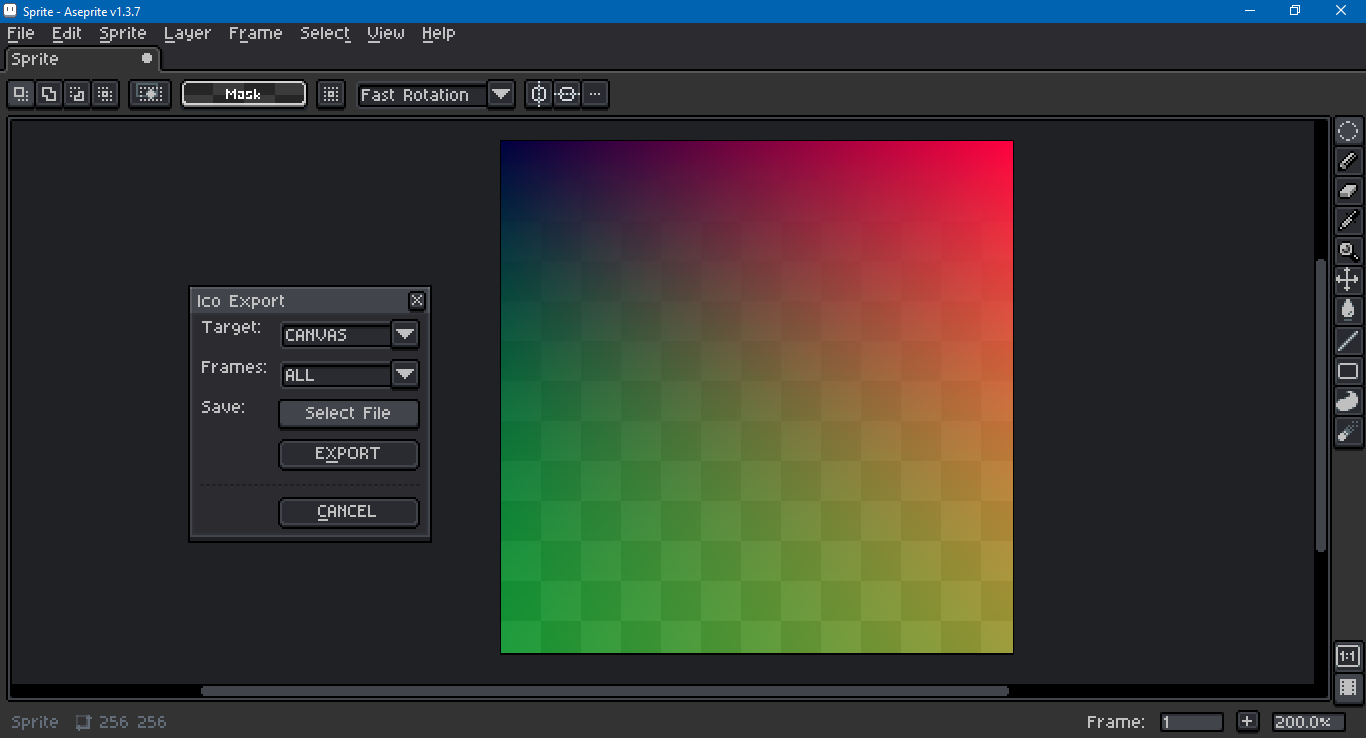
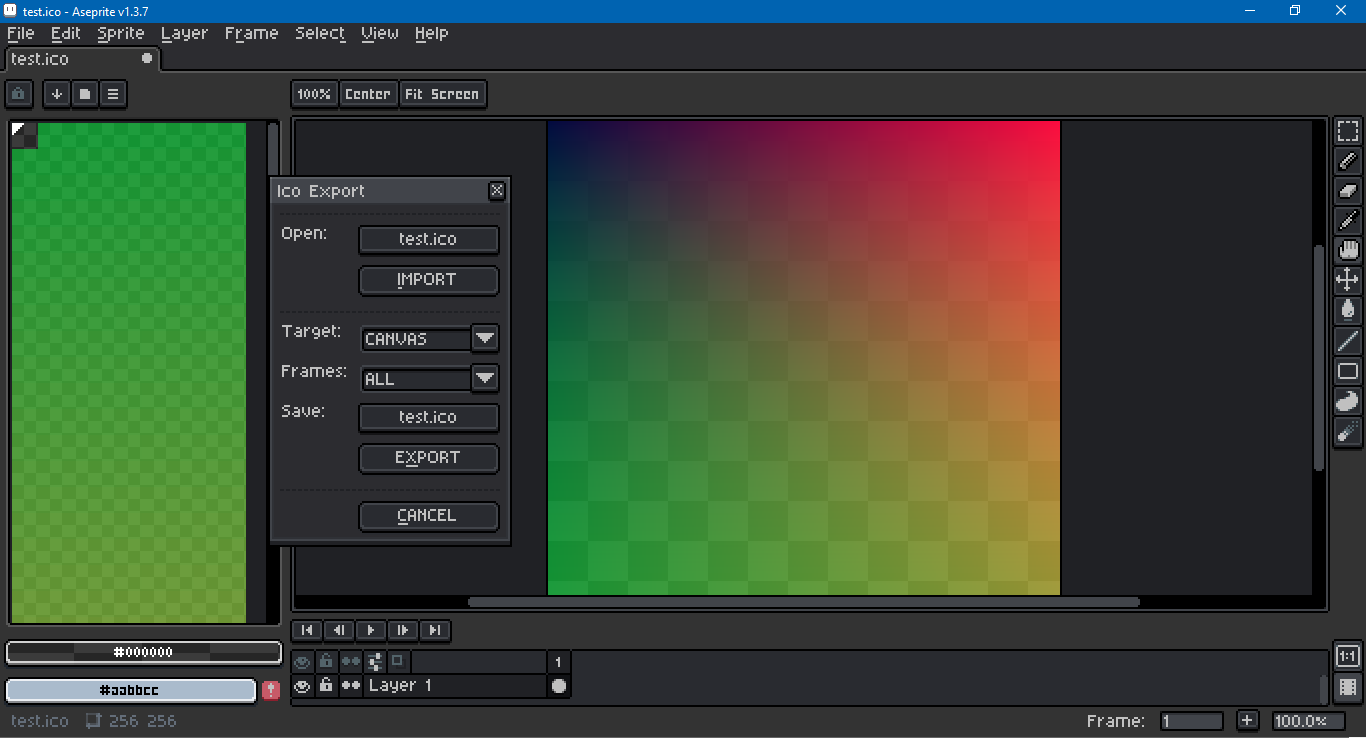
Update readme.

diff --git a/README.md b/README.md
@@ -1,10 +1,16 @@
-# Aseprite Ico Export
+# Aseprite Ico Import & Export
 
 ![Screen Capture](screenCap.png)
 
-This an [Aseprite](https://www.aseprite.org/) script to export `ico`s in 32-bit RGBA format, i.e., with translucency. Aseprite is an "animated sprite editor and pixel art tool."
+This an [Aseprite](https://www.aseprite.org/) script to export `ico`s in 32 bit RGBA format, i.e., with translucency. It also has some import capability.
 
-Aseprite supports `ico`s, but the built-in feature does not include the alpha channel. This export is limited to to the size 256 by 256 pixels. It will write a file as 32-bit RGBA regardless of the sprite's color mode (grayscale, indexed or RGB). Each frame is stored as a separate entry in the same `ico` file. To read more about the format, see the [Wikipedia](https://en.wikipedia.org/wiki/ICO_(file_format)) entry.
+Aseprite can load and save `ico`s, but the files are unreadable by other graphics editors, and do not support alpha even when they should.
+
+Export is limited to to the size 256 by 256 pixels. The file is formatted as 32 bit RGBA regardless of the sprite's color mode (grayscale, indexed or RGB). Each frame is stored as a separate entry in the same `ico` file.
+
+Import is limited to 8 bit indexed with 256 color palette; 24 bit RGB with 1 bit alpha; and 32 bit RGBA. The opened sprite is always in RGB color mode, regardless of the file format. `ico`s conaining compressed png data are not supported. *This script does not import Aseprite generated files.*
+
+To read more about the format, see the [Wikipedia](https://en.wikipedia.org/wiki/ICO_(file_format)) entry and "[The evolution of the ICO file format](https://devblogs.microsoft.com/oldnewthing/20101018-00/?p=12513)" by Raymond Chen.
 
 *This script was developed and tested in Aseprite version 1.3.7 on Windows 10.*
 
